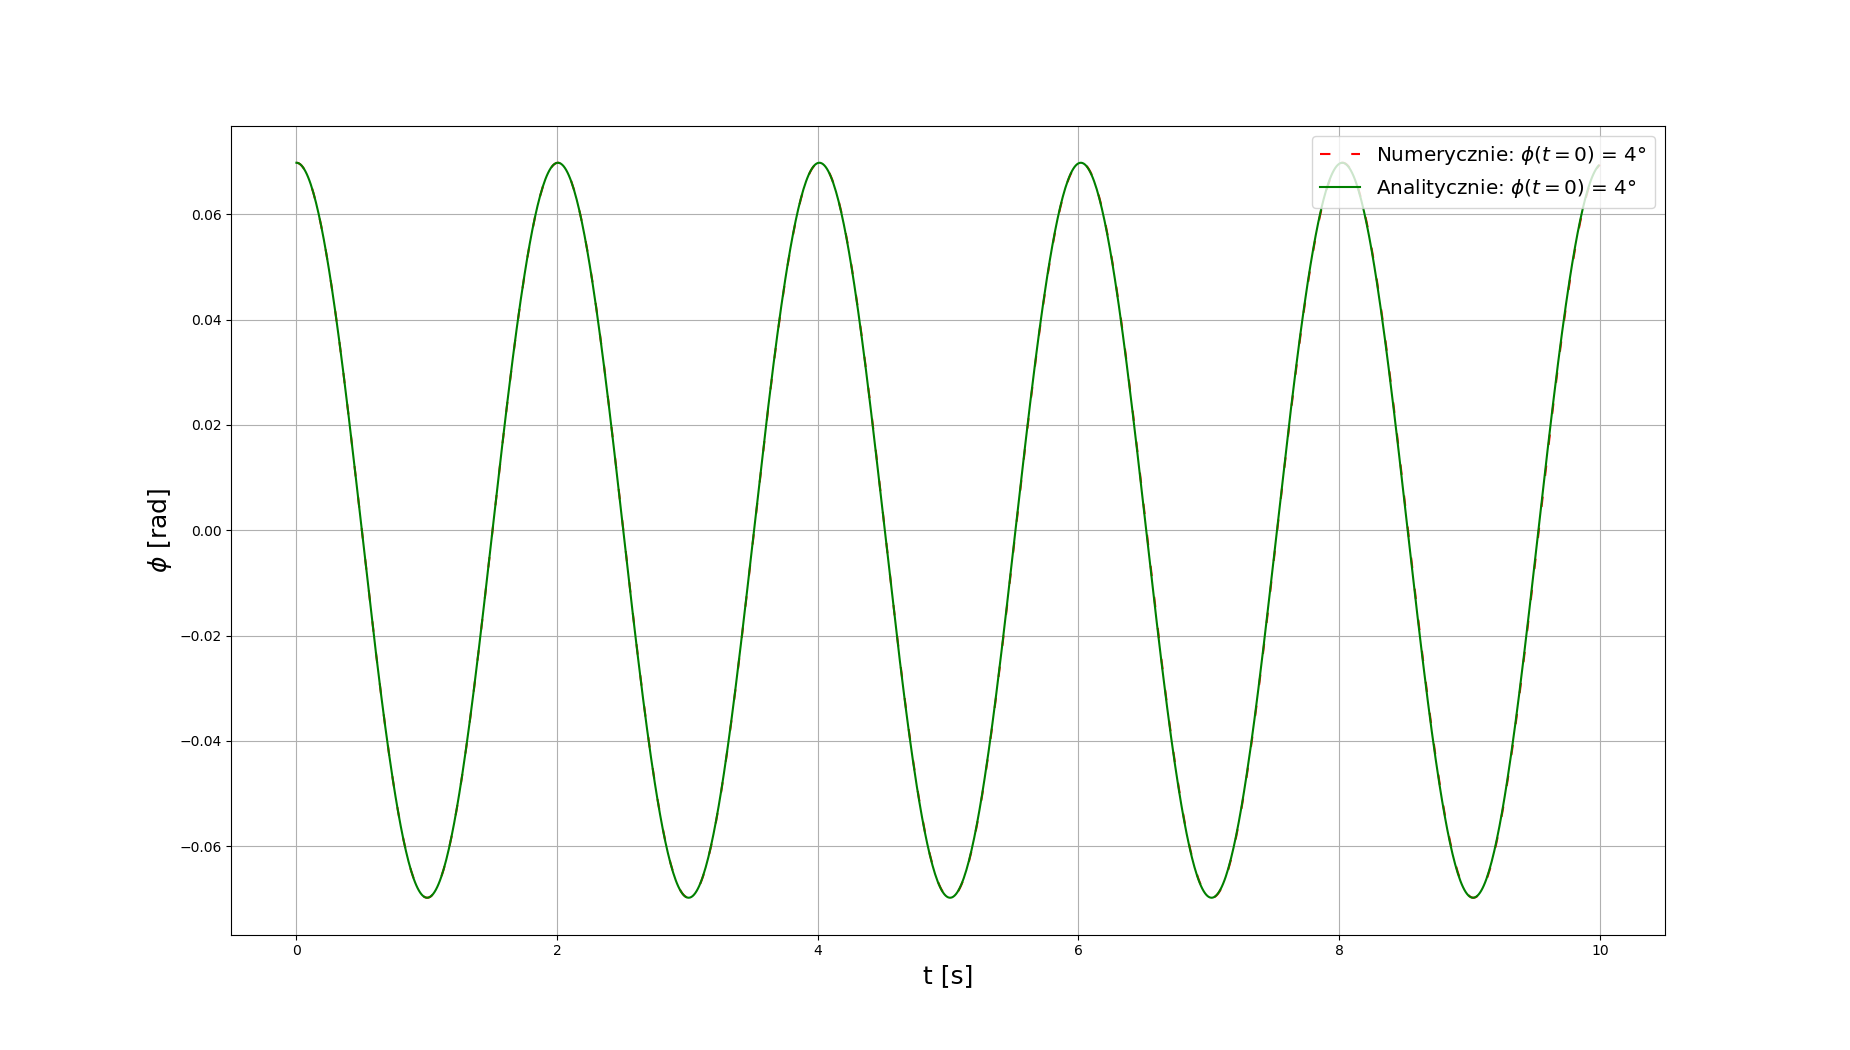
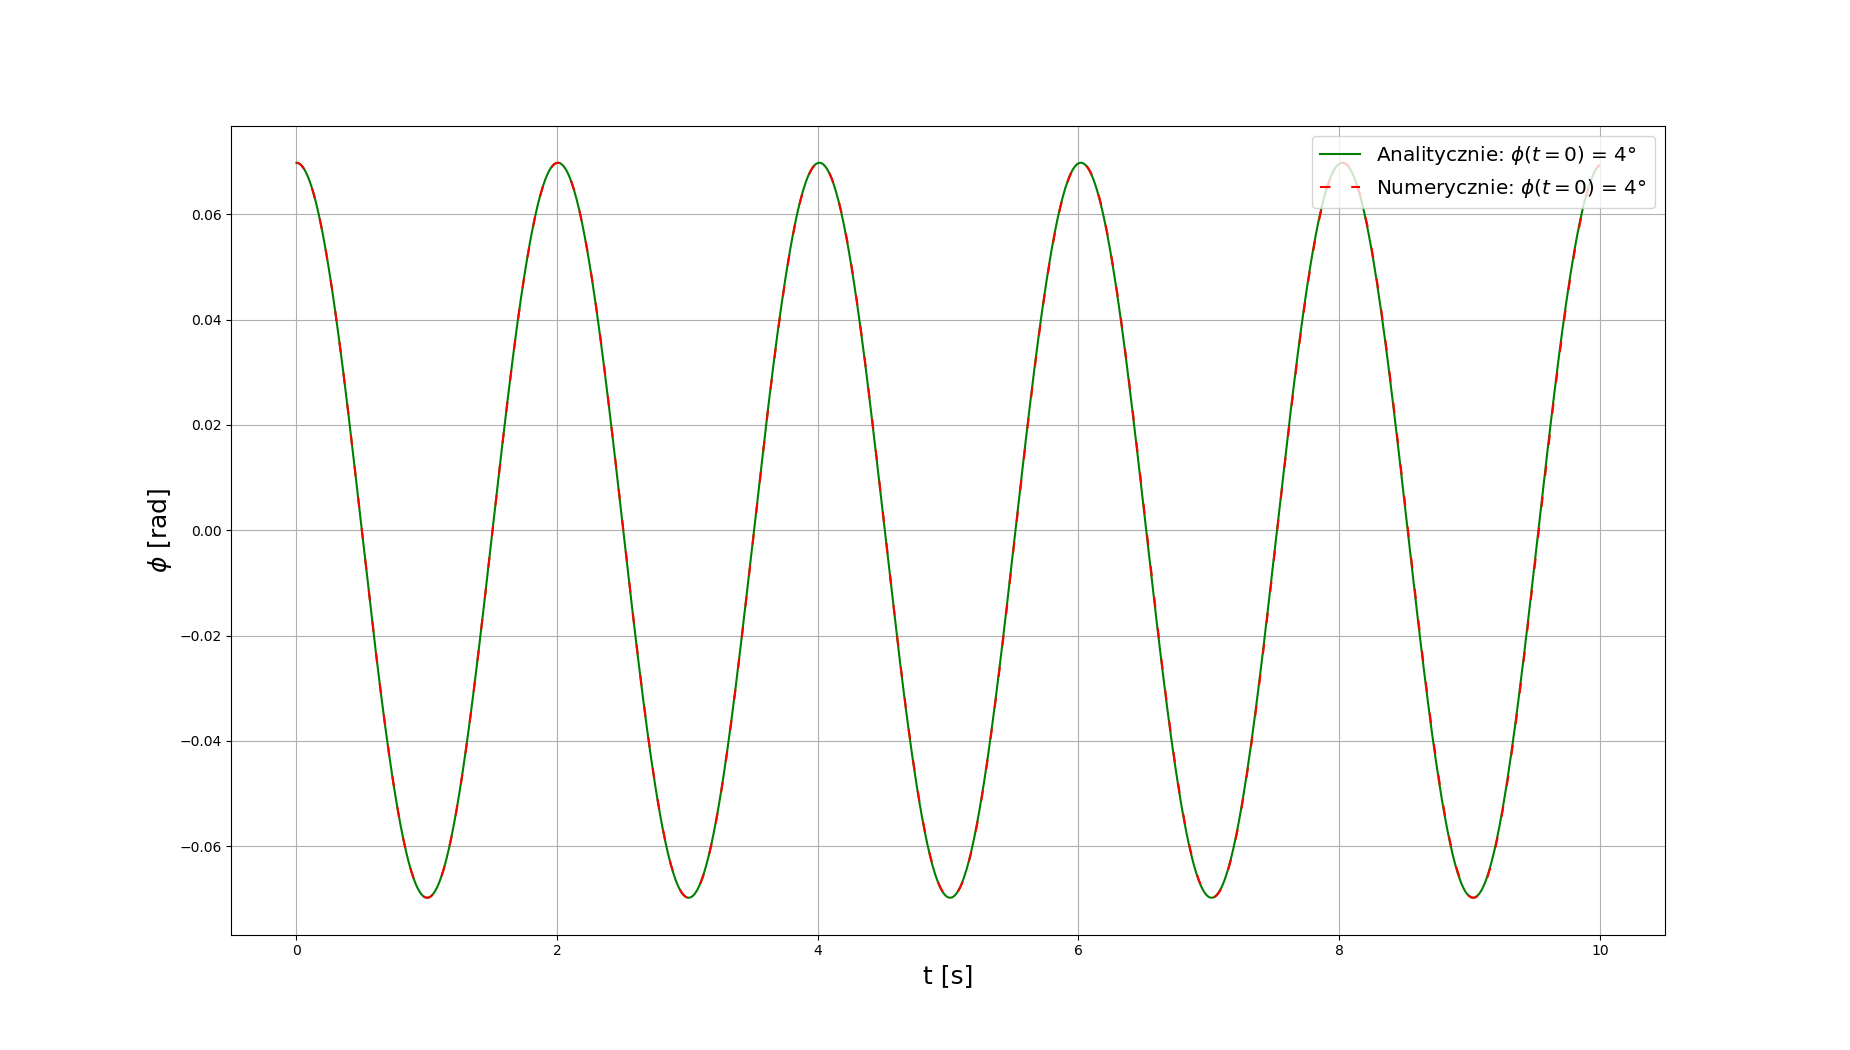
Fix

Changed region(s): [[0.7395, 0.1219, 0.8935, 0.1829]]

diff --git a/PFT/LAB_1/lab_1.py b/PFT/LAB_1/lab_1.py
@@ -172,7 +172,7 @@ def zadanie_1():
 	B = wahadlo("Analitycznie: $\phi(t=0)$ = 4°", "green", deg_to_rad(4))
 	B.analitycznie()
 
-	l = [A,B]
+	l = [B,A]
 
 	rysuj(l,1,0,"t [s]", '$\phi$ [rad]', "zad_1")
 
